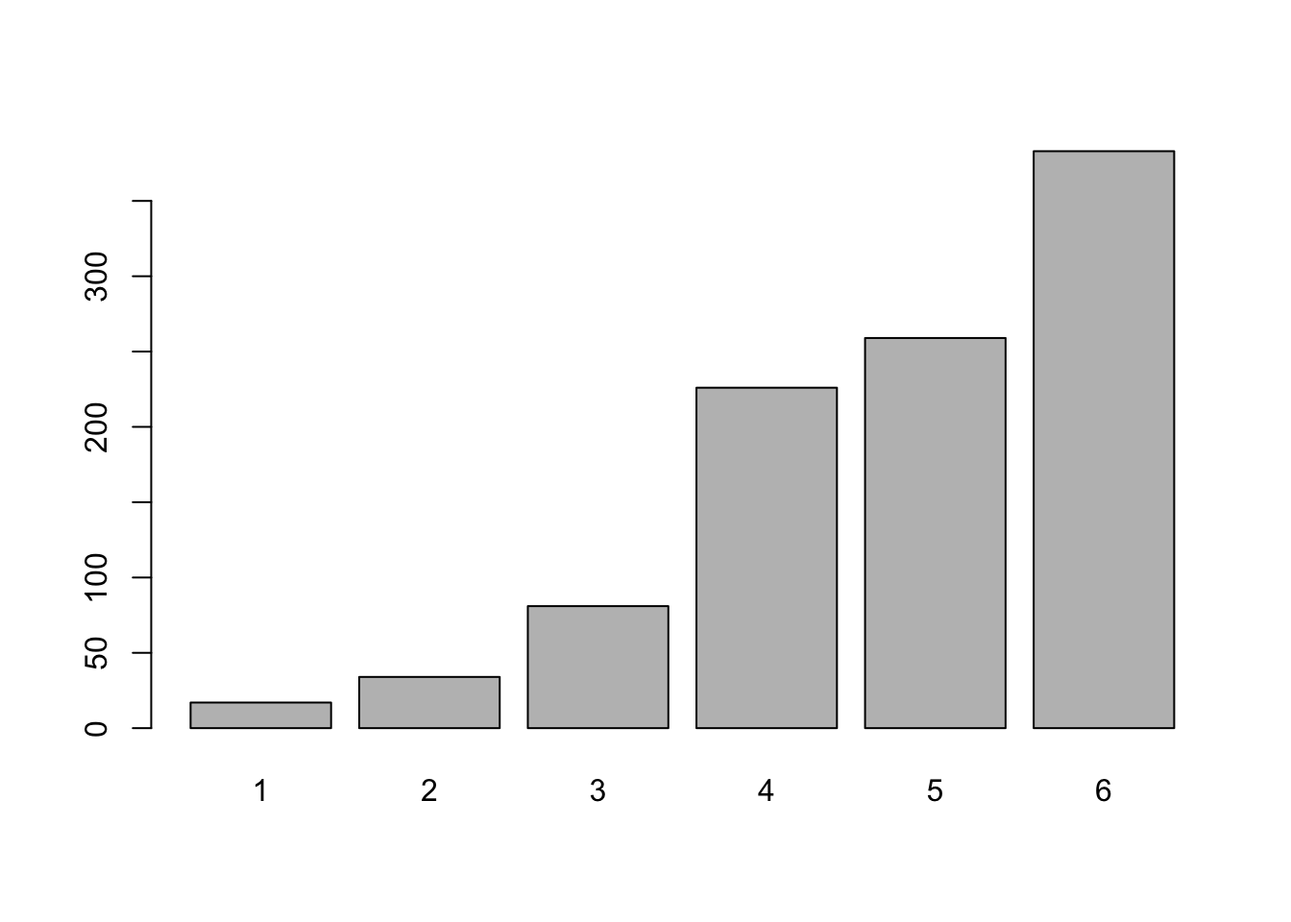
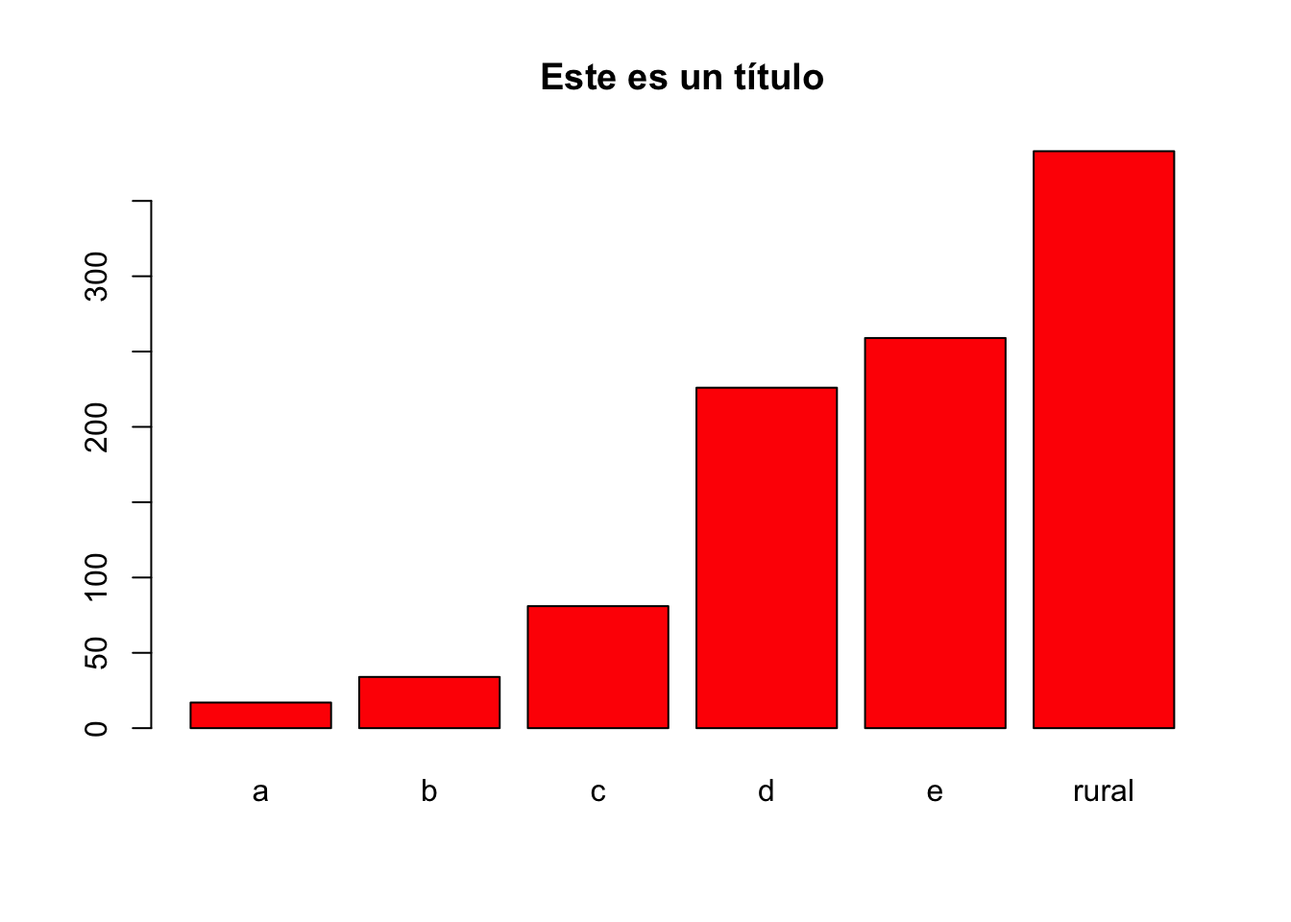
Updating descriptives

diff --git a/docs/Descriptives.html b/docs/Descriptives.html
@@ -451,33 +451,45 @@ div.tocify {
 
 <p><strong>ULTIMA ACTUALIZACIÓN:</strong></p>
 <div class="sourceCode" id="cb1"><pre class="sourceCode r"><code class="sourceCode r"><a class="sourceLine" id="cb1-1" title="1"><span class="kw">print</span>(<span class="kw">Sys.time</span>())</a></code></pre></div>
-<pre><code>## [1] &quot;2019-07-26 15:27:29 EDT&quot;</code></pre>
-<div id="tabla-de-contenidos" class="section level1">
-<h1><span class="header-section-number">1</span> Tabla de Contenidos</h1>
-<p>Parte I:</p>
-<ul>
-<li><a href="#T1">Descriptivos básicos</a>
-<ol style="list-style-type: lower-alpha">
-<li><a href="#T1.1">Tablas de Frequencias</a></li>
-<li><a href="#T1.2">Gráficos descriptivos</a></li>
-</ol></li>
-<li><a href="#T2">Correlaciones</a></li>
-<li><a href="#T3">Differencias de medias</a></li>
-<li><a href="#T3">Chi-square otras</a></li>
-</ul>
+<pre><code>## [1] &quot;2019-07-26 17:25:08 EDT&quot;</code></pre>
 <div id="descriptivos-basicos" class="section level2">
-<h2><span class="header-section-number">1.1</span> Descriptivos básicos <a name="T1"></a></h2>
+<h2><span class="header-section-number">0.1</span> Descriptivos básicos <a name="T1"></a></h2>
 <p>Reutilizamos la base de datos con la que hemos venido trabajando <strong>s2018</strong> en la sección anterior</p>
-<div class="sourceCode" id="cb3"><pre class="sourceCode r"><code class="sourceCode r"><a class="sourceLine" id="cb3-1" title="1"><span class="kw">names</span>(s2018)[<span class="dv">141</span>]&lt;-<span class="st">&quot;ingreso_bruto&quot;</span></a></code></pre></div>
+<pre><code>## 
+## Attaching package: &#39;dplyr&#39;</code></pre>
+<pre><code>## The following objects are masked from &#39;package:stats&#39;:
+## 
+##     filter, lag</code></pre>
+<pre><code>## The following objects are masked from &#39;package:base&#39;:
+## 
+##     intersect, setdiff, setequal, union</code></pre>
+<div class="sourceCode" id="cb6"><pre class="sourceCode r"><code class="sourceCode r"><a class="sourceLine" id="cb6-1" title="1"><span class="kw">names</span>(s2018)[<span class="dv">141</span>]&lt;-<span class="st">&quot;ingreso_bruto&quot;</span></a></code></pre></div>
 <p>Existen funciones que nos pueden dar un vistazo a toda la base de datos. La más útil es: summary. Podemos pedir un summary de la base de datos o de una variable</p>
-<div class="sourceCode" id="cb4"><pre class="sourceCode r"><code class="sourceCode r"><a class="sourceLine" id="cb4-1" title="1"><span class="kw">summary</span>(s2018) <span class="co"># De toda la base de datos</span></a></code></pre></div>
-<div class="sourceCode" id="cb5"><pre class="sourceCode r"><code class="sourceCode r"><a class="sourceLine" id="cb5-1" title="1"><span class="kw">summary</span>(s2018<span class="op">$</span>ingreso_bruto)</a></code></pre></div>
+<div class="sourceCode" id="cb7"><pre class="sourceCode r"><code class="sourceCode r"><a class="sourceLine" id="cb7-1" title="1"><span class="kw">summary</span>(s2018) <span class="co"># De toda la base de datos</span></a></code></pre></div>
+<div class="sourceCode" id="cb8"><pre class="sourceCode r"><code class="sourceCode r"><a class="sourceLine" id="cb8-1" title="1"><span class="kw">summary</span>(s2018<span class="op">$</span>ingreso_bruto)</a></code></pre></div>
 <pre><code>##    Min. 1st Qu.  Median    Mean 3rd Qu.    Max. 
 ##       0    7238   17207   26065   33768  200178</code></pre>
 <p>Dentro del paquete Hmisc tenemos varias funciones útiles.</p>
-<div class="sourceCode" id="cb7"><pre class="sourceCode r"><code class="sourceCode r"><a class="sourceLine" id="cb7-1" title="1"><span class="kw">install.packages</span>(<span class="st">&quot;Hmisc&quot;</span>) <span class="co">#Si no lo tienes instalado ya. </span></a></code></pre></div>
-<div class="sourceCode" id="cb8"><pre class="sourceCode r"><code class="sourceCode r"><a class="sourceLine" id="cb8-1" title="1"><span class="kw">library</span>(Hmisc)</a></code></pre></div>
-<div class="sourceCode" id="cb9"><pre class="sourceCode r"><code class="sourceCode r"><a class="sourceLine" id="cb9-1" title="1"><span class="kw">describe</span>(s2018<span class="op">$</span>ingreso_bruto)</a></code></pre></div>
+<div class="sourceCode" id="cb10"><pre class="sourceCode r"><code class="sourceCode r"><a class="sourceLine" id="cb10-1" title="1"><span class="kw">install.packages</span>(<span class="st">&quot;Hmisc&quot;</span>) <span class="co">#Si no lo tienes instalado ya. </span></a></code></pre></div>
+<div class="sourceCode" id="cb11"><pre class="sourceCode r"><code class="sourceCode r"><a class="sourceLine" id="cb11-1" title="1"><span class="kw">library</span>(Hmisc)</a></code></pre></div>
+<pre><code>## Loading required package: lattice</code></pre>
+<pre><code>## Loading required package: survival</code></pre>
+<pre><code>## Loading required package: Formula</code></pre>
+<pre><code>## Loading required package: ggplot2</code></pre>
+<pre><code>## Registered S3 methods overwritten by &#39;ggplot2&#39;:
+##   method         from 
+##   [.quosures     rlang
+##   c.quosures     rlang
+##   print.quosures rlang</code></pre>
+<pre><code>## 
+## Attaching package: &#39;Hmisc&#39;</code></pre>
+<pre><code>## The following objects are masked from &#39;package:dplyr&#39;:
+## 
+##     src, summarize</code></pre>
+<pre><code>## The following objects are masked from &#39;package:base&#39;:
+## 
+##     format.pval, units</code></pre>
+<div class="sourceCode" id="cb20"><pre class="sourceCode r"><code class="sourceCode r"><a class="sourceLine" id="cb20-1" title="1"><span class="kw">describe</span>(s2018<span class="op">$</span>ingreso_bruto)</a></code></pre></div>
 <pre><code>## s2018$ingreso_bruto : ingreso monetario (bruto)  Format:%10.0g 
 ##        n  missing distinct     Info     Mean      Gmd      .05      .10 
 ##     1000        0      992        1    26065    26954     1894     3266 
@@ -486,42 +498,42 @@ div.tocify {
 ## 
 ## lowest :      0     60    194    203    241, highest: 179165 186308 193650 198447 200178</code></pre>
 <p>Podemos pedir medidas especifícas, es bueno agregar <code>na.rm=true</code> ya que si tenemos valores perdidos generaría error en el cálculo.</p>
-<div class="sourceCode" id="cb11"><pre class="sourceCode r"><code class="sourceCode r"><a class="sourceLine" id="cb11-1" title="1"><span class="kw">mean</span>(s2018<span class="op">$</span>ingreso_bruto, <span class="dt">na.rm =</span> <span class="ot">TRUE</span>) <span class="co">## Media</span></a></code></pre></div>
+<div class="sourceCode" id="cb22"><pre class="sourceCode r"><code class="sourceCode r"><a class="sourceLine" id="cb22-1" title="1"><span class="kw">mean</span>(s2018<span class="op">$</span>ingreso_bruto, <span class="dt">na.rm =</span> <span class="ot">TRUE</span>) <span class="co">## Media</span></a></code></pre></div>
 <pre><code>## [1] 26064.51</code></pre>
-<div class="sourceCode" id="cb13"><pre class="sourceCode r"><code class="sourceCode r"><a class="sourceLine" id="cb13-1" title="1"><span class="kw">median</span>(s2018<span class="op">$</span>ingreso_bruto) <span class="co">## Mediana</span></a></code></pre></div>
+<div class="sourceCode" id="cb24"><pre class="sourceCode r"><code class="sourceCode r"><a class="sourceLine" id="cb24-1" title="1"><span class="kw">median</span>(s2018<span class="op">$</span>ingreso_bruto) <span class="co">## Mediana</span></a></code></pre></div>
 <pre><code>## [1] 17207</code></pre>
-<div class="sourceCode" id="cb15"><pre class="sourceCode r"><code class="sourceCode r"><a class="sourceLine" id="cb15-1" title="1"><span class="kw">sd</span>(s2018<span class="op">$</span>ingreso_bruto) <span class="co">## Desviación estandard</span></a></code></pre></div>
+<div class="sourceCode" id="cb26"><pre class="sourceCode r"><code class="sourceCode r"><a class="sourceLine" id="cb26-1" title="1"><span class="kw">sd</span>(s2018<span class="op">$</span>ingreso_bruto) <span class="co">## Desviación estandard</span></a></code></pre></div>
 <pre><code>## [1] 29193.19</code></pre>
-<div class="sourceCode" id="cb17"><pre class="sourceCode r"><code class="sourceCode r"><a class="sourceLine" id="cb17-1" title="1"><span class="kw">var</span>(s2018<span class="op">$</span>ingreso_bruto)</a></code></pre></div>
+<div class="sourceCode" id="cb28"><pre class="sourceCode r"><code class="sourceCode r"><a class="sourceLine" id="cb28-1" title="1"><span class="kw">var</span>(s2018<span class="op">$</span>ingreso_bruto)</a></code></pre></div>
 <pre><code>## [1] 852242579</code></pre>
 <p>Podemos pedir medidas de posición:</p>
-<div class="sourceCode" id="cb19"><pre class="sourceCode r"><code class="sourceCode r"><a class="sourceLine" id="cb19-1" title="1"><span class="kw">quantile</span>(s2018<span class="op">$</span>ingreso_bruto, <span class="fl">0.9</span>) <span class="co">#percentil 90</span></a></code></pre></div>
+<div class="sourceCode" id="cb30"><pre class="sourceCode r"><code class="sourceCode r"><a class="sourceLine" id="cb30-1" title="1"><span class="kw">quantile</span>(s2018<span class="op">$</span>ingreso_bruto, <span class="fl">0.9</span>) <span class="co">#percentil 90</span></a></code></pre></div>
 <pre><code>##     90% 
 ## 56070.2</code></pre>
 <p>Podemos pedir varios a la vez, combinando funciones. Por ejemplo la función <code>seq(inicio, final, salto)</code></p>
-<div class="sourceCode" id="cb21"><pre class="sourceCode r"><code class="sourceCode r"><a class="sourceLine" id="cb21-1" title="1"><span class="kw">quantile</span>(s2018<span class="op">$</span>ingreso_bruto, <span class="kw">seq</span>(<span class="fl">0.1</span>,<span class="fl">0.9</span>,<span class="fl">0.1</span>))</a></code></pre></div>
+<div class="sourceCode" id="cb32"><pre class="sourceCode r"><code class="sourceCode r"><a class="sourceLine" id="cb32-1" title="1"><span class="kw">quantile</span>(s2018<span class="op">$</span>ingreso_bruto, <span class="kw">seq</span>(<span class="fl">0.1</span>,<span class="fl">0.9</span>,<span class="fl">0.1</span>))</a></code></pre></div>
 <pre><code>##       10%       20%       30%       40%       50%       60%       70% 
 ##  3265.643  5728.800  9028.194 13116.955 17207.000 22319.400 29505.700 
 ##       80%       90% 
 ## 38018.600 56070.200</code></pre>
 <div id="tablas" class="section level3">
-<h3><span class="header-section-number">1.1.1</span> Tablas: <a name="T1.1"></a></h3>
+<h3><span class="header-section-number">0.1.1</span> Tablas: <a name="T1.1"></a></h3>
 <p>Frequencias.</p>
-<div class="sourceCode" id="cb23"><pre class="sourceCode r"><code class="sourceCode r"><a class="sourceLine" id="cb23-1" title="1"><span class="kw">table</span>(s2018<span class="op">$</span>estrsocial)</a></code></pre></div>
+<div class="sourceCode" id="cb34"><pre class="sourceCode r"><code class="sourceCode r"><a class="sourceLine" id="cb34-1" title="1"><span class="kw">table</span>(s2018<span class="op">$</span>estrsocial)</a></code></pre></div>
 <pre><code>## 
 ##   1   2   3   4   5   6 
 ##  17  34  81 226 259 383</code></pre>
 <p>Proportion table.</p>
-<div class="sourceCode" id="cb25"><pre class="sourceCode r"><code class="sourceCode r"><a class="sourceLine" id="cb25-1" title="1"><span class="kw">prop.table</span>(<span class="kw">table</span>(s2018<span class="op">$</span>estrsocial))</a></code></pre></div>
+<div class="sourceCode" id="cb36"><pre class="sourceCode r"><code class="sourceCode r"><a class="sourceLine" id="cb36-1" title="1"><span class="kw">prop.table</span>(<span class="kw">table</span>(s2018<span class="op">$</span>estrsocial))</a></code></pre></div>
 <pre><code>## 
 ##     1     2     3     4     5     6 
 ## 0.017 0.034 0.081 0.226 0.259 0.383</code></pre>
 <p>Tablas con Dplyr:</p>
-<div class="sourceCode" id="cb27"><pre class="sourceCode r"><code class="sourceCode r"><a class="sourceLine" id="cb27-1" title="1">s2018<span class="op">%&gt;%</span><span class="kw">group_by</span>(estrsocial)<span class="op">%&gt;%</span></a>
-<a class="sourceLine" id="cb27-2" title="2"><span class="st">  </span><span class="kw">summarise</span>(<span class="dt">Frequency=</span><span class="kw">n</span>())<span class="op">%&gt;%</span></a>
-<a class="sourceLine" id="cb27-3" title="3"><span class="st">  </span><span class="kw">mutate</span>(<span class="dt">Porcentaje=</span>Frequency<span class="op">/</span><span class="kw">sum</span>(Frequency)<span class="op">*</span><span class="dv">100</span>)<span class="op">%&gt;%</span></a>
-<a class="sourceLine" id="cb27-4" title="4"><span class="st">  </span><span class="kw">mutate</span>(<span class="dt">Estratos=</span><span class="kw">names</span>(<span class="kw">attributes</span>(s2018<span class="op">$</span>estrsocial)<span class="op">$</span>labels))<span class="op">%&gt;%</span></a>
-<a class="sourceLine" id="cb27-5" title="5"><span class="st">  </span><span class="kw">select</span>(Estratos,Frequency,Porcentaje)</a></code></pre></div>
+<div class="sourceCode" id="cb38"><pre class="sourceCode r"><code class="sourceCode r"><a class="sourceLine" id="cb38-1" title="1">s2018<span class="op">%&gt;%</span><span class="kw">group_by</span>(estrsocial)<span class="op">%&gt;%</span></a>
+<a class="sourceLine" id="cb38-2" title="2"><span class="st">  </span><span class="kw">summarise</span>(<span class="dt">Frequency=</span><span class="kw">n</span>())<span class="op">%&gt;%</span></a>
+<a class="sourceLine" id="cb38-3" title="3"><span class="st">  </span><span class="kw">mutate</span>(<span class="dt">Porcentaje=</span>Frequency<span class="op">/</span><span class="kw">sum</span>(Frequency)<span class="op">*</span><span class="dv">100</span>)<span class="op">%&gt;%</span></a>
+<a class="sourceLine" id="cb38-4" title="4"><span class="st">  </span><span class="kw">mutate</span>(<span class="dt">Estratos=</span><span class="kw">names</span>(<span class="kw">attributes</span>(s2018<span class="op">$</span>estrsocial)<span class="op">$</span>labels))<span class="op">%&gt;%</span></a>
+<a class="sourceLine" id="cb38-5" title="5"><span class="st">  </span><span class="kw">select</span>(Estratos,Frequency,Porcentaje)</a></code></pre></div>
 <pre><code>## # A tibble: 6 x 3
 ##   Estratos Frequency Porcentaje
 ##   &lt;chr&gt;        &lt;int&gt;      &lt;dbl&gt;
@@ -532,106 +544,106 @@ div.tocify {
 ## 5 e              259       25.9
 ## 6 rural          383       38.3</code></pre>
 </div>
-<div id="graficos-descriptivos" class="section level3">
-<h3><span class="header-section-number">1.1.2</span> Gráficos Descriptivos: <a name="T1.1"></a></h3>
+</div>
+<div id="graficos-descriptivos" class="section level2">
+<h2><span class="header-section-number">0.2</span> Gráficos Descriptivos: <a name="T2"></a></h2>
 <p>Existen funciones básicas para gráficos en R, pero la versatilidad de R para gráficos va más allá de estas funciones básicas. Paquetes como <strong>ggplot</strong> han llevado a otro nivel el análisis gráfico de R.</p>
 <p>Aquí trataremos de mostra ambos.</p>
-</div>
 <div id="graficos-de-barra-simples-en-r" class="section level3">
-<h3><span class="header-section-number">1.1.3</span> Graficos de Barra simples en R</h3>
-<div class="sourceCode" id="cb29"><pre class="sourceCode r"><code class="sourceCode r"><a class="sourceLine" id="cb29-1" title="1"><span class="kw">barplot</span>(<span class="kw">table</span>(s2018<span class="op">$</span>estrsocial))</a></code></pre></div>
-<p><img src="Descriptives_files/figure-html/unnamed-chunk-15-1.png" width="672" /></p>
+<h3><span class="header-section-number">0.2.1</span> Graficos de Barra simples en R <a name="T2_1"></a></h3>
+<div class="sourceCode" id="cb40"><pre class="sourceCode r"><code class="sourceCode r"><a class="sourceLine" id="cb40-1" title="1"><span class="kw">barplot</span>(<span class="kw">table</span>(s2018<span class="op">$</span>estrsocial))</a></code></pre></div>
+<p><img src="Descriptives_files/figure-html/unnamed-chunk-14-1.png" width="672" /></p>
 <p>Podemos cambiar algunas cosas:</p>
-<div class="sourceCode" id="cb30"><pre class="sourceCode r"><code class="sourceCode r"><a class="sourceLine" id="cb30-1" title="1"><span class="kw">barplot</span>(<span class="kw">table</span>(s2018<span class="op">$</span>estrsocial), <span class="dt">col=</span><span class="st">&quot;red&quot;</span>,</a>
-<a class="sourceLine" id="cb30-2" title="2">        <span class="dt">names.arg =</span> <span class="kw">names</span>(<span class="kw">attributes</span>(s2018<span class="op">$</span>estrsocial)<span class="op">$</span>labels), </a>
-<a class="sourceLine" id="cb30-3" title="3">        <span class="dt">main=</span><span class="st">&quot;Este es un título&quot;</span>)</a></code></pre></div>
-<p><img src="Descriptives_files/figure-html/unnamed-chunk-16-1.png" width="672" /></p>
+<div class="sourceCode" id="cb41"><pre class="sourceCode r"><code class="sourceCode r"><a class="sourceLine" id="cb41-1" title="1"><span class="kw">barplot</span>(<span class="kw">table</span>(s2018<span class="op">$</span>estrsocial), <span class="dt">col=</span><span class="st">&quot;red&quot;</span>,</a>
+<a class="sourceLine" id="cb41-2" title="2">        <span class="dt">names.arg =</span> <span class="kw">names</span>(<span class="kw">attributes</span>(s2018<span class="op">$</span>estrsocial)<span class="op">$</span>labels), </a>
+<a class="sourceLine" id="cb41-3" title="3">        <span class="dt">main=</span><span class="st">&quot;Este es un título&quot;</span>)</a></code></pre></div>
+<p><img src="Descriptives_files/figure-html/unnamed-chunk-15-1.png" width="672" /></p>
 </div>
 <div id="graficos-de-barra-simples-en-ggplot-y-dplyr" class="section level3">
-<h3><span class="header-section-number">1.1.4</span> Graficos de Barra simples en <strong>ggplot</strong> y <strong>dplyr</strong></h3>
+<h3><span class="header-section-number">0.2.2</span> Graficos de Barra simples en <strong>ggplot</strong> y <strong>dplyr</strong> <a name="T2_2"></a></h3>
 <ul>
 <li>ggplot: es el paso inicial para crear un “ambiente” ggplot.</li>
 <li><strong>+</strong> vas agregando capas (detalles) al objecto</li>
 <li><code>geom_bar</code> es que crearemos un gráficos de barras</li>
 </ul>
-<div class="sourceCode" id="cb31"><pre class="sourceCode r"><code class="sourceCode r"><a class="sourceLine" id="cb31-1" title="1"><span class="kw">library</span>(ggplot2) <span class="co"># Recuerda que tienes haberlo instalado antes. </span></a>
-<a class="sourceLine" id="cb31-2" title="2">s2018<span class="op">%&gt;%</span><span class="kw">ggplot</span>(<span class="kw">aes</span>(<span class="dt">x=</span>estrsocial))<span class="op">+</span></a>
-<a class="sourceLine" id="cb31-3" title="3"><span class="st">    </span><span class="kw">geom_bar</span>(<span class="dt">stat=</span><span class="st">&quot;bin&quot;</span>, <span class="dt">bins=</span><span class="dv">20</span>)</a></code></pre></div>
-<p><img src="Descriptives_files/figure-html/unnamed-chunk-17-1.png" width="672" /></p>
+<div class="sourceCode" id="cb42"><pre class="sourceCode r"><code class="sourceCode r"><a class="sourceLine" id="cb42-1" title="1"><span class="kw">library</span>(ggplot2) <span class="co"># Recuerda que tienes haberlo instalado antes.</span></a>
+<a class="sourceLine" id="cb42-2" title="2"><span class="kw">library</span>(dplyr)</a>
+<a class="sourceLine" id="cb42-3" title="3">s2018<span class="op">%&gt;%</span><span class="kw">ggplot</span>(<span class="kw">aes</span>(<span class="dt">x=</span>estrsocial))<span class="op">+</span></a>
+<a class="sourceLine" id="cb42-4" title="4"><span class="st">    </span><span class="kw">geom_bar</span>(<span class="dt">stat=</span><span class="st">&quot;bin&quot;</span>, <span class="dt">bins=</span><span class="dv">20</span>)</a></code></pre></div>
+<p><img src="Descriptives_files/figure-html/unnamed-chunk-16-1.png" width="672" /></p>
 <p>Al mismo gráfico le cambiamos el nombre de los ejes con <code>labs</code>, incluso le podemos agregar una “nota”</p>
-<div class="sourceCode" id="cb32"><pre class="sourceCode r"><code class="sourceCode r"><a class="sourceLine" id="cb32-1" title="1">s2018<span class="op">%&gt;%</span><span class="kw">ggplot</span>(<span class="kw">aes</span>(<span class="dt">x=</span>estrsocial))<span class="op">+</span></a>
-<a class="sourceLine" id="cb32-2" title="2"><span class="st">    </span><span class="kw">geom_bar</span>(<span class="dt">stat=</span><span class="st">&quot;bin&quot;</span>, <span class="dt">bins=</span><span class="dv">20</span>)<span class="op">+</span></a>
-<a class="sourceLine" id="cb32-3" title="3"><span class="st">    </span><span class="kw">labs</span>(<span class="dt">y=</span><span class="st">&quot;Frecuencia&quot;</span>, <span class="dt">x=</span><span class="st">&quot;Estrato Social&quot;</span>,</a>
-<a class="sourceLine" id="cb32-4" title="4">         <span class="dt">caption=</span><span class="st">&quot;(Tomado de....)&quot;</span>)</a></code></pre></div>
-<p><img src="Descriptives_files/figure-html/unnamed-chunk-18-1.png" width="672" /></p>
+<div class="sourceCode" id="cb43"><pre class="sourceCode r"><code class="sourceCode r"><a class="sourceLine" id="cb43-1" title="1">s2018<span class="op">%&gt;%</span><span class="kw">ggplot</span>(<span class="kw">aes</span>(<span class="dt">x=</span>estrsocial))<span class="op">+</span></a>
+<a class="sourceLine" id="cb43-2" title="2"><span class="st">    </span><span class="kw">geom_bar</span>(<span class="dt">stat=</span><span class="st">&quot;bin&quot;</span>, <span class="dt">bins=</span><span class="dv">20</span>)<span class="op">+</span></a>
+<a class="sourceLine" id="cb43-3" title="3"><span class="st">    </span><span class="kw">labs</span>(<span class="dt">y=</span><span class="st">&quot;Frecuencia&quot;</span>, <span class="dt">x=</span><span class="st">&quot;Estrato Social&quot;</span>,</a>
+<a class="sourceLine" id="cb43-4" title="4">         <span class="dt">caption=</span><span class="st">&quot;(Tomado de....)&quot;</span>)</a></code></pre></div>
+<p><img src="Descriptives_files/figure-html/unnamed-chunk-17-1.png" width="672" /></p>
 <p>Ahora le cambiamos la etiqueta al eje x!.</p>
-<div class="sourceCode" id="cb33"><pre class="sourceCode r"><code class="sourceCode r"><a class="sourceLine" id="cb33-1" title="1">s2018<span class="op">%&gt;%</span><span class="kw">ggplot</span>(<span class="kw">aes</span>(<span class="dt">x=</span>estrsocial))<span class="op">+</span></a>
-<a class="sourceLine" id="cb33-2" title="2"><span class="st">    </span><span class="kw">geom_bar</span>(<span class="dt">stat=</span><span class="st">&quot;bin&quot;</span>, <span class="dt">bins=</span><span class="dv">20</span>)<span class="op">+</span></a>
-<a class="sourceLine" id="cb33-3" title="3"><span class="st">    </span><span class="kw">labs</span>(<span class="dt">y=</span><span class="st">&quot;Frecuencia&quot;</span>, <span class="dt">x=</span><span class="st">&quot;Estrato Social&quot;</span>,</a>
-<a class="sourceLine" id="cb33-4" title="4">         <span class="dt">caption=</span><span class="st">&quot;(Tomado de....)&quot;</span>)<span class="op">+</span></a>
-<a class="sourceLine" id="cb33-5" title="5"><span class="st">    </span><span class="kw">scale_x_discrete</span>(<span class="dt">limit=</span> <span class="kw">c</span>(<span class="st">&quot;A&quot;</span>,<span class="st">&quot;B&quot;</span>,<span class="st">&quot;C&quot;</span>,<span class="st">&quot;D&quot;</span>,</a>
-<a class="sourceLine" id="cb33-6" title="6">                               <span class="st">&quot;E&quot;</span>,<span class="st">&quot;Rural&quot;</span>))</a></code></pre></div>
-<p><img src="Descriptives_files/figure-html/unnamed-chunk-19-1.png" width="672" /></p>
+<div class="sourceCode" id="cb44"><pre class="sourceCode r"><code class="sourceCode r"><a class="sourceLine" id="cb44-1" title="1">s2018<span class="op">%&gt;%</span><span class="kw">ggplot</span>(<span class="kw">aes</span>(<span class="dt">x=</span>estrsocial))<span class="op">+</span></a>
+<a class="sourceLine" id="cb44-2" title="2"><span class="st">    </span><span class="kw">geom_bar</span>(<span class="dt">stat=</span><span class="st">&quot;bin&quot;</span>, <span class="dt">bins=</span><span class="dv">20</span>)<span class="op">+</span></a>
+<a class="sourceLine" id="cb44-3" title="3"><span class="st">    </span><span class="kw">labs</span>(<span class="dt">y=</span><span class="st">&quot;Frecuencia&quot;</span>, <span class="dt">x=</span><span class="st">&quot;Estrato Social&quot;</span>,</a>
+<a class="sourceLine" id="cb44-4" title="4">         <span class="dt">caption=</span><span class="st">&quot;(Tomado de....)&quot;</span>)<span class="op">+</span></a>
+<a class="sourceLine" id="cb44-5" title="5"><span class="st">    </span><span class="kw">scale_x_discrete</span>(<span class="dt">limit=</span> <span class="kw">c</span>(<span class="st">&quot;A&quot;</span>,<span class="st">&quot;B&quot;</span>,<span class="st">&quot;C&quot;</span>,<span class="st">&quot;D&quot;</span>,</a>
+<a class="sourceLine" id="cb44-6" title="6">                               <span class="st">&quot;E&quot;</span>,<span class="st">&quot;Rural&quot;</span>))</a></code></pre></div>
+<p><img src="Descriptives_files/figure-html/unnamed-chunk-18-1.png" width="672" /></p>
 <p>Gráficos con porcentajes</p>
 <ul>
 <li>En este caso manipulamos la data con dplyr para obtener los porcentajes por cada grupo.</li>
 </ul>
-<div class="sourceCode" id="cb34"><pre class="sourceCode r"><code class="sourceCode r"><a class="sourceLine" id="cb34-1" title="1">s2018<span class="op">%&gt;%</span><span class="kw">group_by</span>(estrsocial)<span class="op">%&gt;%</span></a>
-<a class="sourceLine" id="cb34-2" title="2"><span class="st">  </span><span class="kw">summarise</span>(<span class="dt">Frequencia=</span><span class="kw">n</span>())<span class="op">%&gt;%</span><span class="st"> </span><span class="co">## Tabla de frecuencias </span></a>
-<a class="sourceLine" id="cb34-3" title="3"><span class="st">  </span><span class="kw">mutate</span>(<span class="dt">Porcentaje=</span>Frequencia<span class="op">/</span><span class="kw">sum</span>(Frequencia)<span class="op">*</span><span class="dv">100</span>)<span class="op">%&gt;%</span><span class="st"> </span><span class="co">##Agregando porcentajes</span></a>
-<a class="sourceLine" id="cb34-4" title="4"><span class="st">  </span><span class="kw">ggplot</span>(<span class="kw">aes</span>(<span class="dt">x=</span>estrsocial, <span class="dt">y=</span>Porcentaje))<span class="op">+</span></a>
-<a class="sourceLine" id="cb34-5" title="5"><span class="st">  </span><span class="kw">geom_bar</span>(<span class="dt">stat=</span><span class="st">&quot;identity&quot;</span>, <span class="dt">fill=</span><span class="st">&quot;red&quot;</span>)<span class="op">+</span></a>
-<a class="sourceLine" id="cb34-6" title="6"><span class="st">  </span><span class="kw">scale_x_discrete</span>(<span class="dt">limit=</span> <span class="kw">c</span>(<span class="st">&quot;A&quot;</span>,<span class="st">&quot;B&quot;</span>,<span class="st">&quot;C&quot;</span>,<span class="st">&quot;D&quot;</span>,</a>
-<a class="sourceLine" id="cb34-7" title="7">                               <span class="st">&quot;E&quot;</span>,<span class="st">&quot;Rural&quot;</span>))</a></code></pre></div>
-<p><img src="Descriptives_files/figure-html/unnamed-chunk-20-1.png" width="672" /></p>
+<div class="sourceCode" id="cb45"><pre class="sourceCode r"><code class="sourceCode r"><a class="sourceLine" id="cb45-1" title="1">s2018<span class="op">%&gt;%</span><span class="kw">group_by</span>(estrsocial)<span class="op">%&gt;%</span></a>
+<a class="sourceLine" id="cb45-2" title="2"><span class="st">  </span><span class="kw">summarise</span>(<span class="dt">Frequencia=</span><span class="kw">n</span>())<span class="op">%&gt;%</span><span class="st"> </span><span class="co">## Tabla de frecuencias </span></a>
+<a class="sourceLine" id="cb45-3" title="3"><span class="st">  </span><span class="kw">mutate</span>(<span class="dt">Porcentaje=</span>Frequencia<span class="op">/</span><span class="kw">sum</span>(Frequencia)<span class="op">*</span><span class="dv">100</span>)<span class="op">%&gt;%</span><span class="st"> </span><span class="co">##Agregando porcentajes</span></a>
+<a class="sourceLine" id="cb45-4" title="4"><span class="st">  </span><span class="kw">ggplot</span>(<span class="kw">aes</span>(<span class="dt">x=</span>estrsocial, <span class="dt">y=</span>Porcentaje))<span class="op">+</span></a>
+<a class="sourceLine" id="cb45-5" title="5"><span class="st">  </span><span class="kw">geom_bar</span>(<span class="dt">stat=</span><span class="st">&quot;identity&quot;</span>, <span class="dt">fill=</span><span class="st">&quot;red&quot;</span>)<span class="op">+</span></a>
+<a class="sourceLine" id="cb45-6" title="6"><span class="st">  </span><span class="kw">scale_x_discrete</span>(<span class="dt">limit=</span> <span class="kw">c</span>(<span class="st">&quot;A&quot;</span>,<span class="st">&quot;B&quot;</span>,<span class="st">&quot;C&quot;</span>,<span class="st">&quot;D&quot;</span>,</a>
+<a class="sourceLine" id="cb45-7" title="7">                               <span class="st">&quot;E&quot;</span>,<span class="st">&quot;Rural&quot;</span>))</a></code></pre></div>
+<p><img src="Descriptives_files/figure-html/unnamed-chunk-19-1.png" width="672" /></p>
 </div>
 <div id="box-plot-o-diagramas-de-cajas" class="section level3">
-<h3><span class="header-section-number">1.1.5</span> Box plot o diagramas de cajas</h3>
-<div class="sourceCode" id="cb35"><pre class="sourceCode r"><code class="sourceCode r"><a class="sourceLine" id="cb35-1" title="1"><span class="kw">boxplot</span>(s2018<span class="op">$</span>estrsocial, <span class="dt">col=</span><span class="st">&quot;red&quot;</span>)</a></code></pre></div>
-<p><img src="Descriptives_files/figure-html/unnamed-chunk-21-1.png" width="672" /></p>
-<div class="sourceCode" id="cb36"><pre class="sourceCode r"><code class="sourceCode r"><a class="sourceLine" id="cb36-1" title="1"><span class="kw">boxplot</span>(s2018<span class="op">$</span>ingreso_bruto<span class="op">~</span>s2018<span class="op">$</span>estrsocial, <span class="dt">col=</span><span class="st">&quot;red&quot;</span>)</a>
-<a class="sourceLine" id="cb36-2" title="2"><span class="co">## Boxplot by groups </span></a></code></pre></div>
+<h3><span class="header-section-number">0.2.3</span> Box plot o diagramas de cajas</h3>
+<div class="sourceCode" id="cb46"><pre class="sourceCode r"><code class="sourceCode r"><a class="sourceLine" id="cb46-1" title="1"><span class="kw">boxplot</span>(s2018<span class="op">$</span>estrsocial, <span class="dt">col=</span><span class="st">&quot;red&quot;</span>)</a></code></pre></div>
+<p><img src="Descriptives_files/figure-html/unnamed-chunk-20-1.png" width="672" /></p>
+<div class="sourceCode" id="cb47"><pre class="sourceCode r"><code class="sourceCode r"><a class="sourceLine" id="cb47-1" title="1"><span class="kw">boxplot</span>(s2018<span class="op">$</span>ingreso_bruto<span class="op">~</span>s2018<span class="op">$</span>estrsocial, <span class="dt">col=</span><span class="st">&quot;red&quot;</span>)</a>
+<a class="sourceLine" id="cb47-2" title="2"><span class="co">## Boxplot by groups </span></a></code></pre></div>
 </div>
 <div id="box-plot-o-diagramas-de-cajas-con-dyplr-y-ggplot2" class="section level3">
-<h3><span class="header-section-number">1.1.6</span> Box plot o diagramas de cajas con <strong>dyplr</strong> y <strong>ggplot2</strong></h3>
-<div class="sourceCode" id="cb37"><pre class="sourceCode r"><code class="sourceCode r"><a class="sourceLine" id="cb37-1" title="1">s2018<span class="op">%&gt;%</span><span class="kw">ggplot</span>(<span class="kw">aes</span>(<span class="dt">y=</span>estrsocial))<span class="op">+</span></a>
-<a class="sourceLine" id="cb37-2" title="2"><span class="st">  </span><span class="kw">geom_boxplot</span>(<span class="dt">col=</span><span class="st">&quot;red&quot;</span>, <span class="dt">fill=</span><span class="st">&quot;blue&quot;</span>)</a></code></pre></div>
-<p><img src="Descriptives_files/figure-html/unnamed-chunk-23-1.png" width="672" /></p>
+<h3><span class="header-section-number">0.2.4</span> Box plot o diagramas de cajas con <strong>dyplr</strong> y <strong>ggplot2</strong></h3>
+<div class="sourceCode" id="cb48"><pre class="sourceCode r"><code class="sourceCode r"><a class="sourceLine" id="cb48-1" title="1">s2018<span class="op">%&gt;%</span><span class="kw">ggplot</span>(<span class="kw">aes</span>(<span class="dt">y=</span>estrsocial))<span class="op">+</span></a>
+<a class="sourceLine" id="cb48-2" title="2"><span class="st">  </span><span class="kw">geom_boxplot</span>(<span class="dt">col=</span><span class="st">&quot;red&quot;</span>, <span class="dt">fill=</span><span class="st">&quot;blue&quot;</span>)</a></code></pre></div>
+<p><img src="Descriptives_files/figure-html/test1-1.png" width="672" /></p>
 </div>
 <div id="histogramas" class="section level3">
-<h3><span class="header-section-number">1.1.7</span> Histogramas</h3>
+<h3><span class="header-section-number">0.2.5</span> Histogramas</h3>
 <ul>
 <li>Hagamos una histograma de la variable ingreso</li>
 </ul>
-<div class="sourceCode" id="cb38"><pre class="sourceCode r"><code class="sourceCode r"><a class="sourceLine" id="cb38-1" title="1"><span class="kw">hist</span>(s2018<span class="op">$</span>ingreso_bruto, <span class="dt">main=</span><span class="st">&quot;Histograma de Ingreso&quot;</span>,</a>
-<a class="sourceLine" id="cb38-2" title="2">     <span class="dt">ylab=</span><span class="st">&quot;TITULO EJE Y&quot;</span>, <span class="dt">xlab=</span><span class="st">&quot;FRECUENCIA&quot;</span>,</a>
-<a class="sourceLine" id="cb38-3" title="3">     <span class="dt">col=</span><span class="st">&quot;blue&quot;</span>)</a></code></pre></div>
-<p><img src="Descriptives_files/figure-html/unnamed-chunk-24-1.png" width="672" /></p>
+<div class="sourceCode" id="cb49"><pre class="sourceCode r"><code class="sourceCode r"><a class="sourceLine" id="cb49-1" title="1"><span class="kw">hist</span>(s2018<span class="op">$</span>ingreso_bruto, <span class="dt">main=</span><span class="st">&quot;Histograma de Ingreso&quot;</span>,</a>
+<a class="sourceLine" id="cb49-2" title="2">     <span class="dt">ylab=</span><span class="st">&quot;TITULO EJE Y&quot;</span>, <span class="dt">xlab=</span><span class="st">&quot;FRECUENCIA&quot;</span>,</a>
+<a class="sourceLine" id="cb49-3" title="3">     <span class="dt">col=</span><span class="st">&quot;blue&quot;</span>)</a></code></pre></div>
+<p><img src="Descriptives_files/figure-html/unnamed-chunk-22-1.png" width="672" /></p>
 <p>Podemos agregar una línea que represente la media.</p>
-<div class="sourceCode" id="cb39"><pre class="sourceCode r"><code class="sourceCode r"><a class="sourceLine" id="cb39-1" title="1"><span class="kw">hist</span>(s2018<span class="op">$</span>ingreso_bruto, <span class="dt">main=</span><span class="st">&quot;Histograma de Ingreso&quot;</span>,</a>
-<a class="sourceLine" id="cb39-2" title="2">     <span class="dt">ylab=</span><span class="st">&quot;TITULO EJE Y&quot;</span>, <span class="dt">xlab=</span><span class="st">&quot;FRECUENCIA&quot;</span>,</a>
-<a class="sourceLine" id="cb39-3" title="3">     <span class="dt">col=</span><span class="st">&quot;blue&quot;</span>)</a>
-<a class="sourceLine" id="cb39-4" title="4"><span class="kw">abline</span>(<span class="dt">v=</span><span class="kw">mean</span>(s2018<span class="op">$</span>ingreso_bruto), <span class="dt">col=</span><span class="st">&quot;red&quot;</span>)</a></code></pre></div>
-<p><img src="Descriptives_files/figure-html/unnamed-chunk-25-1.png" width="672" /></p>
+<div class="sourceCode" id="cb50"><pre class="sourceCode r"><code class="sourceCode r"><a class="sourceLine" id="cb50-1" title="1"><span class="kw">hist</span>(s2018<span class="op">$</span>ingreso_bruto, <span class="dt">main=</span><span class="st">&quot;Histograma de Ingreso&quot;</span>,</a>
+<a class="sourceLine" id="cb50-2" title="2">     <span class="dt">ylab=</span><span class="st">&quot;TITULO EJE Y&quot;</span>, <span class="dt">xlab=</span><span class="st">&quot;FRECUENCIA&quot;</span>,</a>
+<a class="sourceLine" id="cb50-3" title="3">     <span class="dt">col=</span><span class="st">&quot;blue&quot;</span>)</a>
+<a class="sourceLine" id="cb50-4" title="4"><span class="kw">abline</span>(<span class="dt">v=</span><span class="kw">mean</span>(s2018<span class="op">$</span>ingreso_bruto), <span class="dt">col=</span><span class="st">&quot;red&quot;</span>)</a></code></pre></div>
+<p><img src="Descriptives_files/figure-html/unnamed-chunk-23-1.png" width="672" /></p>
 <p>Podemos agregar una línea que represente la mediana también y otros detalles.</p>
-<div class="sourceCode" id="cb40"><pre class="sourceCode r"><code class="sourceCode r"><a class="sourceLine" id="cb40-1" title="1"><span class="kw">hist</span>(s2018<span class="op">$</span>ingreso_bruto, <span class="dt">main=</span><span class="st">&quot;Histograma de Ingreso&quot;</span>,</a>
-<a class="sourceLine" id="cb40-2" title="2">     <span class="dt">ylab=</span><span class="st">&quot;TITULO EJE Y&quot;</span>, <span class="dt">xlab=</span><span class="st">&quot;FRECUENCIA&quot;</span>,</a>
-<a class="sourceLine" id="cb40-3" title="3">     <span class="dt">col=</span><span class="st">&quot;grey&quot;</span>) <span class="co">## Histograma básico </span></a>
-<a class="sourceLine" id="cb40-4" title="4"><span class="kw">abline</span>(<span class="dt">v=</span><span class="kw">mean</span>(s2018<span class="op">$</span>ingreso_bruto), <span class="dt">col=</span><span class="st">&quot;red&quot;</span>) <span class="co">## Agregando media</span></a>
-<a class="sourceLine" id="cb40-5" title="5"><span class="kw">abline</span>(<span class="dt">v=</span><span class="kw">median</span>(s2018<span class="op">$</span>ingreso_bruto), <span class="dt">col=</span><span class="st">&quot;purple&quot;</span>) <span class="co">## Agregando Mediana</span></a>
-<a class="sourceLine" id="cb40-6" title="6"><span class="kw">text</span>(<span class="kw">median</span>(s2018<span class="op">$</span>ingreso_bruto),<span class="dv">300</span>, <span class="st">&quot;Medana&quot;</span>,<span class="dt">pch =</span> <span class="dv">3</span>)</a></code></pre></div>
-<p><img src="Descriptives_files/figure-html/unnamed-chunk-26-1.png" width="672" /></p>
+<div class="sourceCode" id="cb51"><pre class="sourceCode r"><code class="sourceCode r"><a class="sourceLine" id="cb51-1" title="1"><span class="kw">hist</span>(s2018<span class="op">$</span>ingreso_bruto, <span class="dt">main=</span><span class="st">&quot;Histograma de Ingreso&quot;</span>,</a>
+<a class="sourceLine" id="cb51-2" title="2">     <span class="dt">ylab=</span><span class="st">&quot;TITULO EJE Y&quot;</span>, <span class="dt">xlab=</span><span class="st">&quot;FRECUENCIA&quot;</span>,</a>
+<a class="sourceLine" id="cb51-3" title="3">     <span class="dt">col=</span><span class="st">&quot;grey&quot;</span>) <span class="co">## Histograma básico </span></a>
+<a class="sourceLine" id="cb51-4" title="4"><span class="kw">abline</span>(<span class="dt">v=</span><span class="kw">mean</span>(s2018<span class="op">$</span>ingreso_bruto), <span class="dt">col=</span><span class="st">&quot;red&quot;</span>) <span class="co">## Agregando media</span></a>
+<a class="sourceLine" id="cb51-5" title="5"><span class="kw">abline</span>(<span class="dt">v=</span><span class="kw">median</span>(s2018<span class="op">$</span>ingreso_bruto), <span class="dt">col=</span><span class="st">&quot;purple&quot;</span>) <span class="co">## Agregando Mediana</span></a>
+<a class="sourceLine" id="cb51-6" title="6"><span class="kw">text</span>(<span class="kw">median</span>(s2018<span class="op">$</span>ingreso_bruto),<span class="dv">300</span>, <span class="st">&quot;Medana&quot;</span>,<span class="dt">pch =</span> <span class="dv">3</span>)</a></code></pre></div>
+<p><img src="Descriptives_files/figure-html/unnamed-chunk-24-1.png" width="672" /></p>
 </div>
 <div id="histogramas-con-dplyr-y-ggplot2" class="section level3">
-<h3><span class="header-section-number">1.1.8</span> Histogramas con <strong>dplyr</strong> y <strong>ggplot2</strong></h3>
-<div class="sourceCode" id="cb41"><pre class="sourceCode r"><code class="sourceCode r"><a class="sourceLine" id="cb41-1" title="1">s2018<span class="op">%&gt;%</span><span class="kw">ggplot</span>(<span class="kw">aes</span>(<span class="dt">x=</span>ingreso_bruto))<span class="op">+</span></a>
-<a class="sourceLine" id="cb41-2" title="2"><span class="st">  </span><span class="kw">geom_histogram</span>(<span class="dt">bins=</span><span class="dv">20</span>)<span class="op">+</span></a>
-<a class="sourceLine" id="cb41-3" title="3"><span class="st">  </span><span class="kw">geom_vline</span>(<span class="kw">aes</span>(<span class="dt">xintercept=</span><span class="kw">mean</span>(ingreso_bruto)),</a>
-<a class="sourceLine" id="cb41-4" title="4">             <span class="dt">linetype=</span><span class="st">&quot;dashed&quot;</span> , <span class="dt">col=</span><span class="st">&quot;blue&quot;</span>)<span class="op">+</span></a>
-<a class="sourceLine" id="cb41-5" title="5"><span class="st">  </span><span class="kw">geom_vline</span>(<span class="kw">aes</span>(<span class="dt">xintercept=</span><span class="kw">median</span>(ingreso_bruto)),</a>
-<a class="sourceLine" id="cb41-6" title="6">             <span class="dt">linetype=</span><span class="st">&quot;dashed&quot;</span> , <span class="dt">col=</span><span class="st">&quot;red&quot;</span>)</a></code></pre></div>
-<p><img src="Descriptives_files/figure-html/unnamed-chunk-27-1.png" width="672" /></p>
-</div>
+<h3><span class="header-section-number">0.2.6</span> Histogramas con <strong>dplyr</strong> y <strong>ggplot2</strong></h3>
+<div class="sourceCode" id="cb52"><pre class="sourceCode r"><code class="sourceCode r"><a class="sourceLine" id="cb52-1" title="1">s2018<span class="op">%&gt;%</span><span class="kw">ggplot</span>(<span class="kw">aes</span>(<span class="dt">x=</span>ingreso_bruto))<span class="op">+</span></a>
+<a class="sourceLine" id="cb52-2" title="2"><span class="st">  </span><span class="kw">geom_histogram</span>(<span class="dt">bins=</span><span class="dv">20</span>)<span class="op">+</span></a>
+<a class="sourceLine" id="cb52-3" title="3"><span class="st">  </span><span class="kw">geom_vline</span>(<span class="kw">aes</span>(<span class="dt">xintercept=</span><span class="kw">mean</span>(ingreso_bruto)),</a>
+<a class="sourceLine" id="cb52-4" title="4">             <span class="dt">linetype=</span><span class="st">&quot;dashed&quot;</span> , <span class="dt">col=</span><span class="st">&quot;blue&quot;</span>)<span class="op">+</span></a>
+<a class="sourceLine" id="cb52-5" title="5"><span class="st">  </span><span class="kw">geom_vline</span>(<span class="kw">aes</span>(<span class="dt">xintercept=</span><span class="kw">median</span>(ingreso_bruto)),</a>
+<a class="sourceLine" id="cb52-6" title="6">             <span class="dt">linetype=</span><span class="st">&quot;dashed&quot;</span> , <span class="dt">col=</span><span class="st">&quot;red&quot;</span>)</a></code></pre></div>
+<p><img src="Descriptives_files/figure-html/unnamed-chunk-25-1.png" width="672" /></p>
 </div>
 </div>
 
